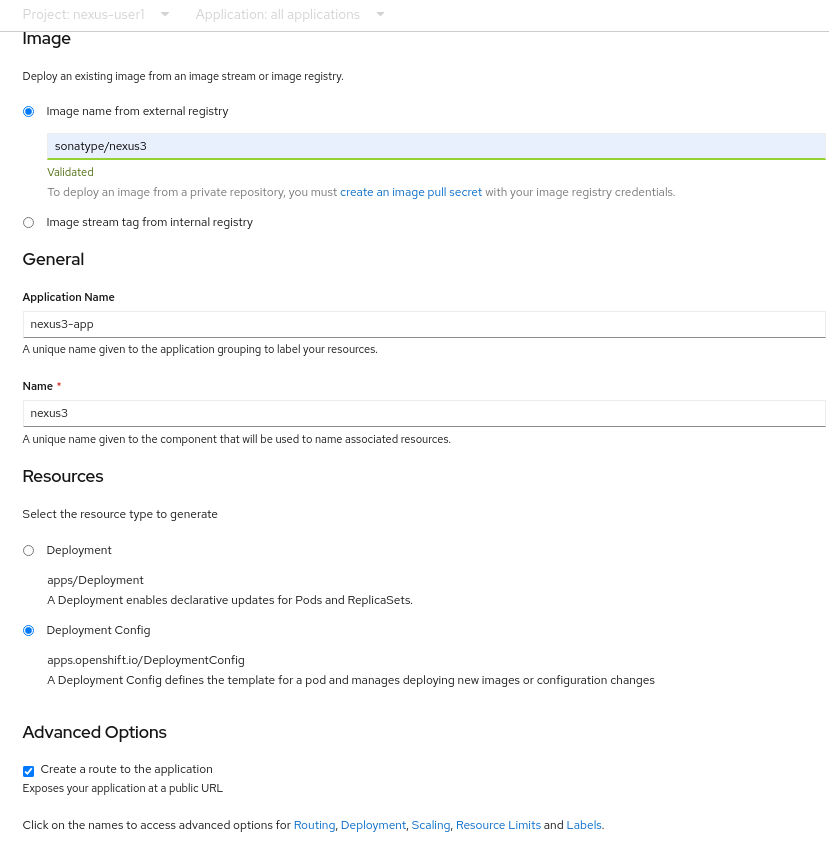
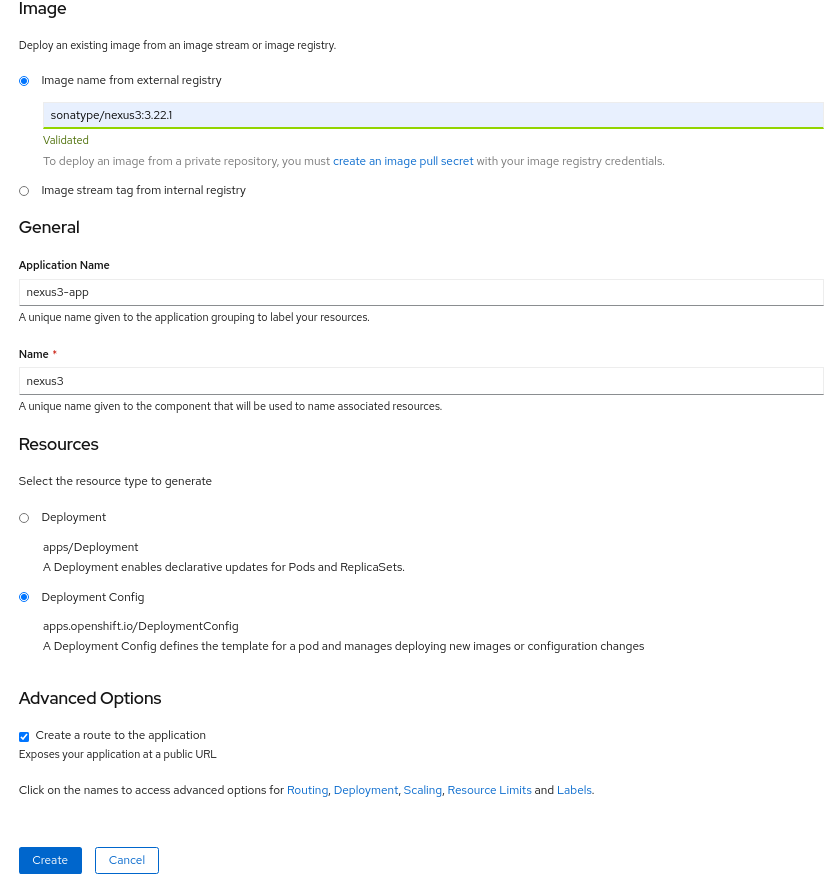
Documentacion lab

Changed region(s): [[0.0, 0.0, 0.965, 1.0], [0.3619, 0.8038, 0.7841, 0.8347]]

diff --git a/labs/02.despliegue.md b/labs/02.despliegue.md
@@ -34,7 +34,7 @@ Para el siguiente ejercicio vamos a desplegar mediante la consola web una aplica
 
 ![create-project-nexus-container-image](img/create-project-nexus-container-image.png)
 
-3. En el campo **Image name from external registry** diligenciar *sonatype/nexus3*
+3. En el campo **Image name from external registry** diligenciar *sonatype/nexus3:3.22.1*
 4. En la sección **Resources** se debe dejar seleccionado **Deployment Config** 
 5. Se debe dejar marcado el check *Create a route to the application* para que se cree la ruta que nos permitirá acceder al nexus. Se espera que los campos queden diligenciados de la siguiente manera:
   
